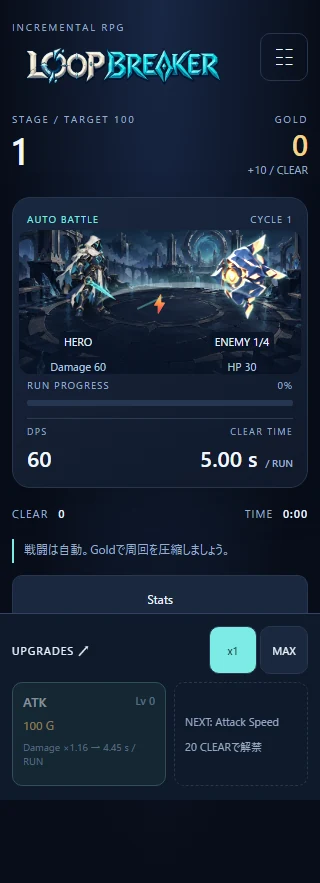
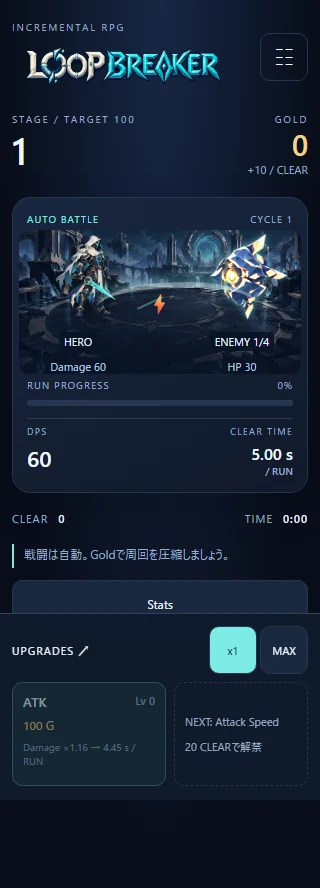
fix: keep clear-time HUD height stable across units

diff --git a/src/ui/style.css b/src/ui/style.css
@@ -323,7 +323,7 @@ progress::-moz-progress-bar {
 }
 .arena-metrics {
   display: grid;
-  grid-template-columns: 1fr 1fr;
+  grid-template-columns: minmax(0, 1fr) minmax(0, 1.6fr);
   gap: 12px;
   margin-top: 12px;
   padding: 6px 0 0;
@@ -341,6 +341,15 @@ progress::-moz-progress-bar {
 }
 .arena-metrics strong {
   font-size: 25px;
+}
+.arena-metrics strong[data-testid="clear-time"] {
+  display: block;
+  white-space: nowrap;
+  font-size: clamp(16px, 5vw, 25px);
+}
+.arena-metrics strong[data-testid="clear-time"] small {
+  display: block;
+  margin-left: 0;
 }
 .arena-metrics small {
   font-size: 10px;

diff --git a/docs/review/ISSUE_9_SPEED_REVIEW.md b/docs/review/ISSUE_9_SPEED_REVIEW.md
@@ -1,6 +1,6 @@
-# Issue #9 レビュー画像
+# Issue #9 レビュー画像
 
-Playwrightの独立Saveで撮影したpresentation確認用の状態。自然進行の時間は[シミュレーション](../SPEED_REWORK.md)を参照。画像6点はWebP合計195,000 bytesで、ゲーム配信アセットには含まれない。
+Playwrightの独立Saveで撮影したpresentation確認用の状態。自然進行の時間は[シミュレーション](../SPEED_REWORK.md)を参照。画像6点はWebP合計192,068 bytesで、ゲーム配信アセットには含まれない。
 
 | 状態 | 320px画像 |
 |---|---|
@@ -12,3 +12,4 @@ Playwrightの独立Saveで撮影したpresentation確認用の状態。自然進
 [390px](issue-9/mobile-390-normal-5s.webp) / [PC](issue-9/desktop-normal-5s.webp)。360pxもE2E対象。静止画像では斬撃の動きを評価できないため、実ブラウザで踏み込み→Slash→Hit Flash→Knockbackも確認してほしい。Reduced Motionでは移動と点滅を停止する。
 
 検証: unit / integration 70件、E2E 56件、lint / typecheck / build / balance simulation成功。100万・1兆CLEARの5秒比較ではBURST場面の子DOMは9、React commitは50〜51、画像読み込み完了後の追加network requestは0。ZoneやBoss切替時の通常画像読み込みまで禁止するものではない。
+

diff --git a/docs/SPEED_REWORK.md b/docs/SPEED_REWORK.md
@@ -43,3 +43,5 @@ unit / integration 70件、E2E 56件、lint / typecheck / production build / sim
 320 / 360 / 390pxとPC、Reduced Motion、横スクロールなし、pageerrorなしを確認。100万・1兆CLEARの比較で固定9 DOM・50〜51 React commit/5秒・ウォームアップ後の追加通信0。[レビュー画像](review/ISSUE_9_SPEED_REVIEW.md)を参照。
 
 残る確認は実機iOS Safari、購入方針による到達時刻差、深部Stage500〜550の長期テンポ。Cycle11/12は深部HPにより12:31 / 23:20へ伸びるが、今回SOUL指数や深部式は独自変更しない。
+
+CIのLinuxフォントではms数値と / RUNが折り返し、Stage帯切替時にArenaが伸びる問題を確認。Clear Time列を広げ、数値と単位を一行、/ RUNを固定の次行として高さを安定化した。ゲーム計算は変更しない。
